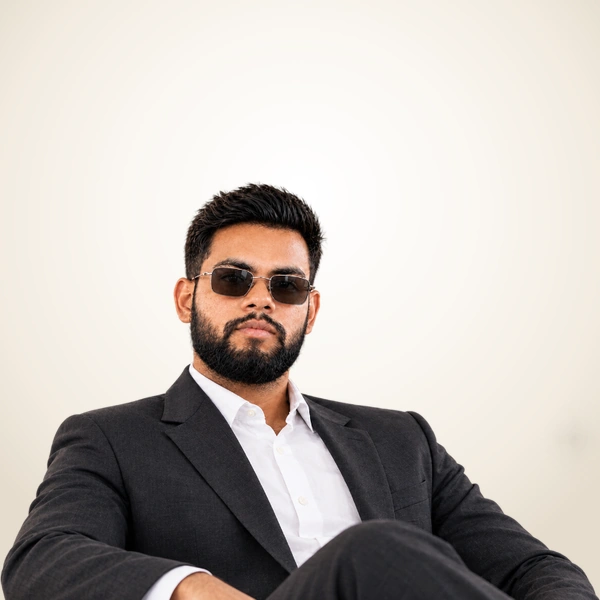
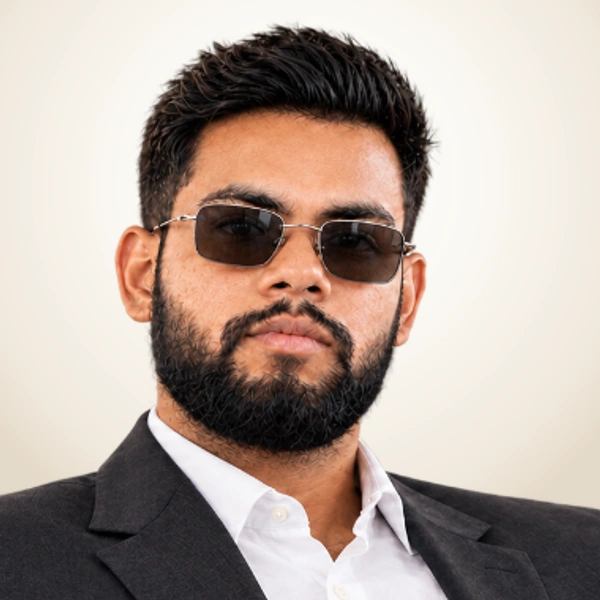
fix(images): properly frame and crop 4:5 executive spotlight and hero portraits

diff --git a/src/components/HeroSection.tsx b/src/components/HeroSection.tsx
@@ -227,7 +227,7 @@ export const HeroSection: React.FC = () => {
               <div className="relative rounded-[4px] overflow-hidden border border-[#CFC3B3] bg-[#FAF8F3] p-2.5 sm:p-3.5 shadow-xl">
                 
                 {/* Image Container with Elegant Subtle Zoom on Hover */}
-                <div className="relative overflow-hidden rounded-[2px] bg-[#DDD2C2]/40 aspect-[4/5] w-full group">
+                <div className="relative overflow-hidden rounded-[2px] bg-[#FAF8F3] aspect-[4/5] w-full group">
                   <img
                     src="/images/tarun-light-portrait.webp"
                     alt="Mr. Tarun Kumar — Founder & AI Systems Engineer"
@@ -235,7 +235,7 @@ export const HeroSection: React.FC = () => {
                     height="750"
                     decoding="async"
                     fetchPriority="high"
-                    className="w-full h-full object-cover object-top transition-transform duration-700 ease-out group-hover:scale-[1.025]"
+                    className="w-full h-full object-cover object-center transition-transform duration-700 ease-out group-hover:scale-[1.025]"
                   />
                   
                   {/* Subtle Vignette & Frame Lighting */}

diff --git a/src/components/AboutSection.tsx b/src/components/AboutSection.tsx
@@ -172,7 +172,7 @@ export const AboutSection: React.FC = () => {
               </div>
               
               {/* Photo */}
-              <div className="relative w-full aspect-[4/5] max-h-[400px] overflow-hidden bg-[#DDD2C2]">
+              <div className="relative w-full aspect-[4/5] overflow-hidden bg-[#FAF8F3]">
                 <img
                   src={spotlight.photoUrl || "/images/tarun-executive.webp"}
                   alt={`${spotlight.name} — ${spotlight.role}`}
@@ -180,7 +180,7 @@ export const AboutSection: React.FC = () => {
                   decoding="async"
                   width="440"
                   height="550"
-                  className="w-full h-full object-cover object-top transition-transform duration-700 hover:scale-[1.02]"
+                  className="w-full h-full object-cover object-center transition-transform duration-700 hover:scale-[1.02]"
                 />
                 <div className="absolute inset-0 bg-gradient-to-t from-[#111111]/40 via-transparent to-transparent pointer-events-none" />
               </div>
